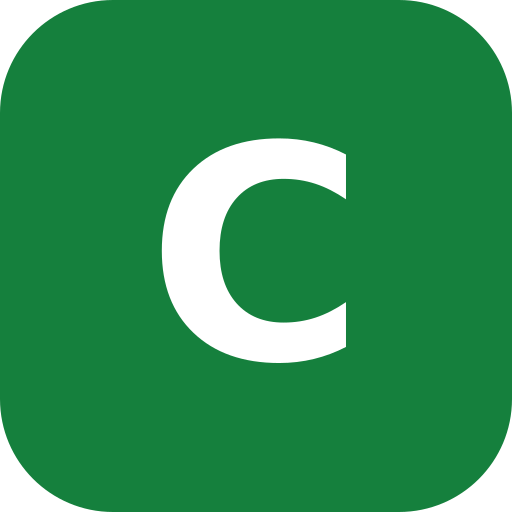
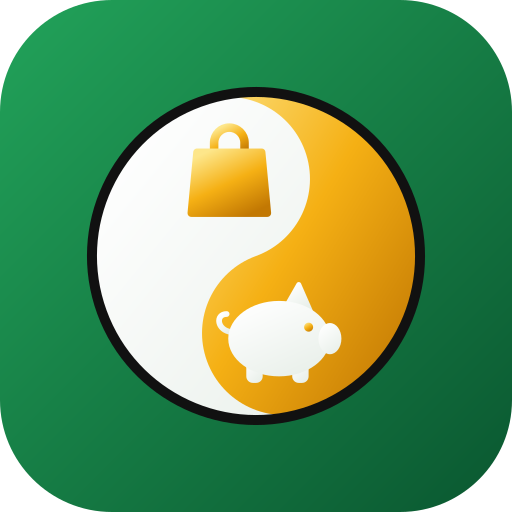
Ícone novo: yin-yang de gastar e poupar
O "C" deu lugar a um yin-yang verde e ouro com contorno preto: numa
metade a sacola (gastar), na outra o porquinho (poupar) — um completa o
outro. Gera todos os tamanhos (PWA, maskable, iPhone, favicon do Next e
o badge de notificação) e o cache do service worker sobe para v8 para
os celulares pegarem o ícone novo.

diff --git a/public/sw.js b/public/sw.js
@@ -5,7 +5,7 @@
 // a shared device after signing out. With no connection, the offline page is shown.
 //
 // It also shows the push notifications (reminders, Gmail alerts) and runs their buttons.
-const CACHE_VERSION = 'capital-v7';
+const CACHE_VERSION = 'capital-v8';
 const STATIC_CACHE = `${CACHE_VERSION}-static`;
 const RUNTIME_CACHE = `${CACHE_VERSION}-runtime`;
 const OFFLINE_URL = '/offline.html';
